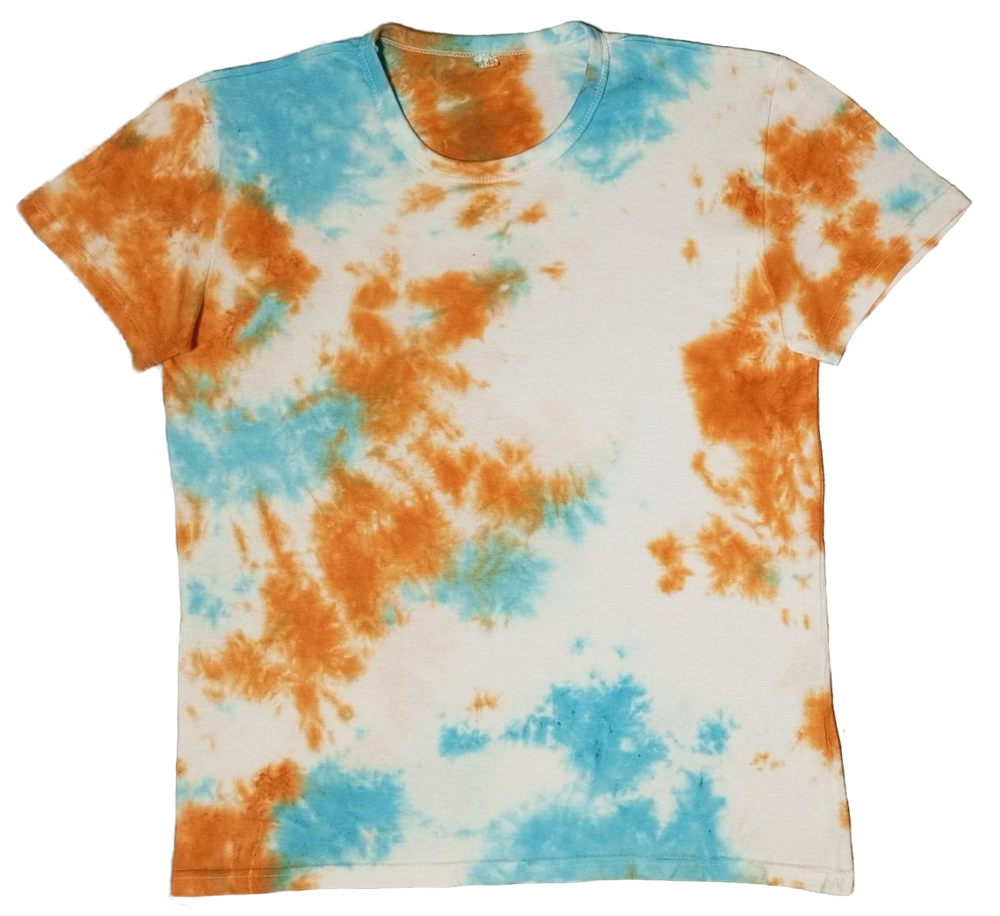
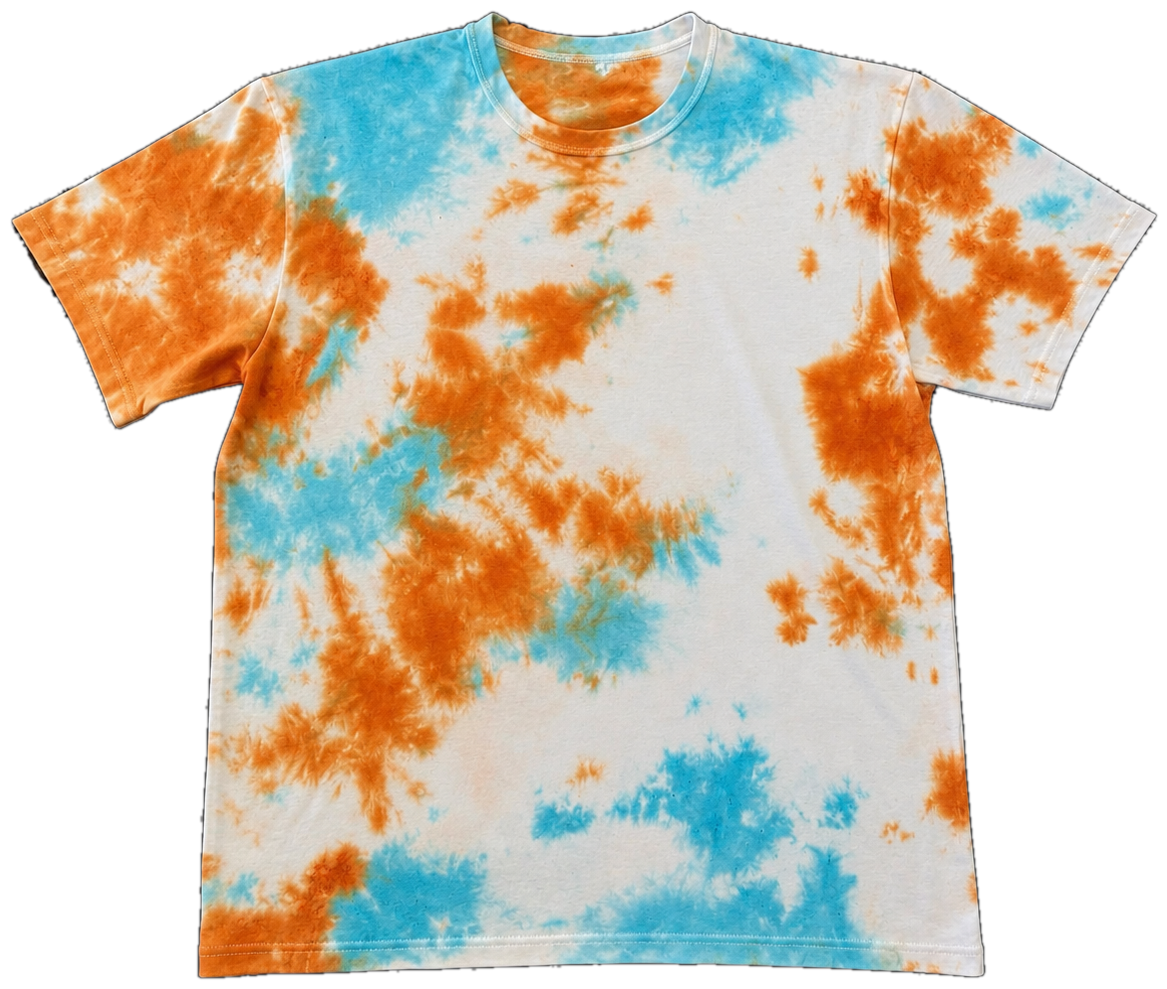
Replace tee-01/tee-02 photos, add a third product (Слива и индиго)
New flat-lay photos supplied by the site owner, background removed
(border flood-fill on near-black, not a flat threshold — see
assets/products/README.md for why) and cropped tight to content.

tee-01/tee-02 keep their filenames and product ids, so this is a drop-
in swap everywhere they're already referenced. The new third photo
(tee-03-berry-navy) is added as a real product to both the catalog
grid (with a live "В корзину" button) and the homepage carousel,
replacing one placeholder card in each.

Claude-Session: https://claude.ai/code/session_015iBL23xP7qtUkpapUhGWfQ

diff --git a/tie-dye-brand/catalog.html b/tie-dye-brand/catalog.html
@@ -128,15 +128,18 @@
         </article>
 
         <article class="catalog-card">
-          <div class="catalog-card-media" aria-hidden="true">
-            <svg viewBox="0 0 24 24" fill="none" stroke="currentColor" stroke-width="1.3" stroke-linecap="round" stroke-linejoin="round"><rect x="3" y="3" width="18" height="18" rx="2"/><circle cx="8.5" cy="8.5" r="1.5"/><path d="M21 15l-5-5L5 21"/></svg>
-            <span class="catalog-card-media-label">Фото скоро</span>
+          <div class="catalog-card-media has-photo">
+            <img src="assets/products/tee-03-berry-navy.png" alt="Тай-дай футболка, сливовый и индиго" loading="lazy">
           </div>
           <div class="catalog-card-text">
-            <p class="catalog-card-name">Название скоро</p>
-            <p class="catalog-card-price">Цена скоро</p>
+            <p class="catalog-card-name">Спираль «Слива и индиго»</p>
+            <p class="catalog-card-price">4 400 ₽</p>
           </div>
-          <button type="button" class="catalog-card-cta" disabled>Подробнее</button>
+          <button type="button" class="catalog-card-cta" data-add-to-cart
+            data-id="tee-03-berry-navy"
+            data-name="Спираль «Слива и индиго»"
+            data-price="4400"
+            data-image="assets/products/tee-03-berry-navy.png">В корзину</button>
         </article>
 
         <article class="catalog-card">

diff --git a/tie-dye-brand/index.html b/tie-dye-brand/index.html
@@ -222,9 +222,8 @@
         </article>
 
         <article class="collection-preview-card">
-          <div class="collection-preview-media" aria-hidden="true">
-            <svg viewBox="0 0 24 24" fill="none" stroke="currentColor" stroke-width="1.3" stroke-linecap="round" stroke-linejoin="round"><rect x="3" y="3" width="18" height="18" rx="2"/><circle cx="8.5" cy="8.5" r="1.5"/><path d="M21 15l-5-5L5 21"/></svg>
-            <span class="collection-preview-media-label">Фото скоро</span>
+          <div class="collection-preview-media has-photo">
+            <img src="assets/products/tee-03-berry-navy.png" alt="Тай-дай футболка, сливовый и индиго" loading="lazy">
           </div>
           <p class="collection-preview-name">Название скоро</p>
         </article>

diff --git a/tie-dye-brand/assets/products/README.md b/tie-dye-brand/assets/products/README.md
@@ -1,0 +1,18 @@
+## tee-01-blue-gold.png / tee-02-amber-teal.png / tee-03-berry-navy.png
+
+Product photos supplied by the site owner as flat-lay shots on a solid
+black backdrop. Background removed by flood-filling from the image
+border across near-black pixels (max channel < 10) rather than a flat
+luminance threshold — a plain "anything dark is background" cut would
+have also eaten the tee's own dark dye patches (navy, plum), since
+those are darker than the surrounding fabric too. Flood-filling from
+the border only removes the backdrop itself; any dark pixel not
+connected to the edge (a dye fleck fully inside the garment's
+silhouette) stays part of the cutout. Edges feathered with a 1px
+gaussian blur on the resulting alpha mask to avoid a hard-pixelated
+outline, then cropped tight to content.
+
+Used directly (`object-fit: contain`, no card background) in the
+catalog grid, the homepage carousel, and the cart line items — see
+`.catalog-card-media.has-photo`, `.collection-preview-media.has-photo`,
+`.cart-item-media` in css/style.css.
